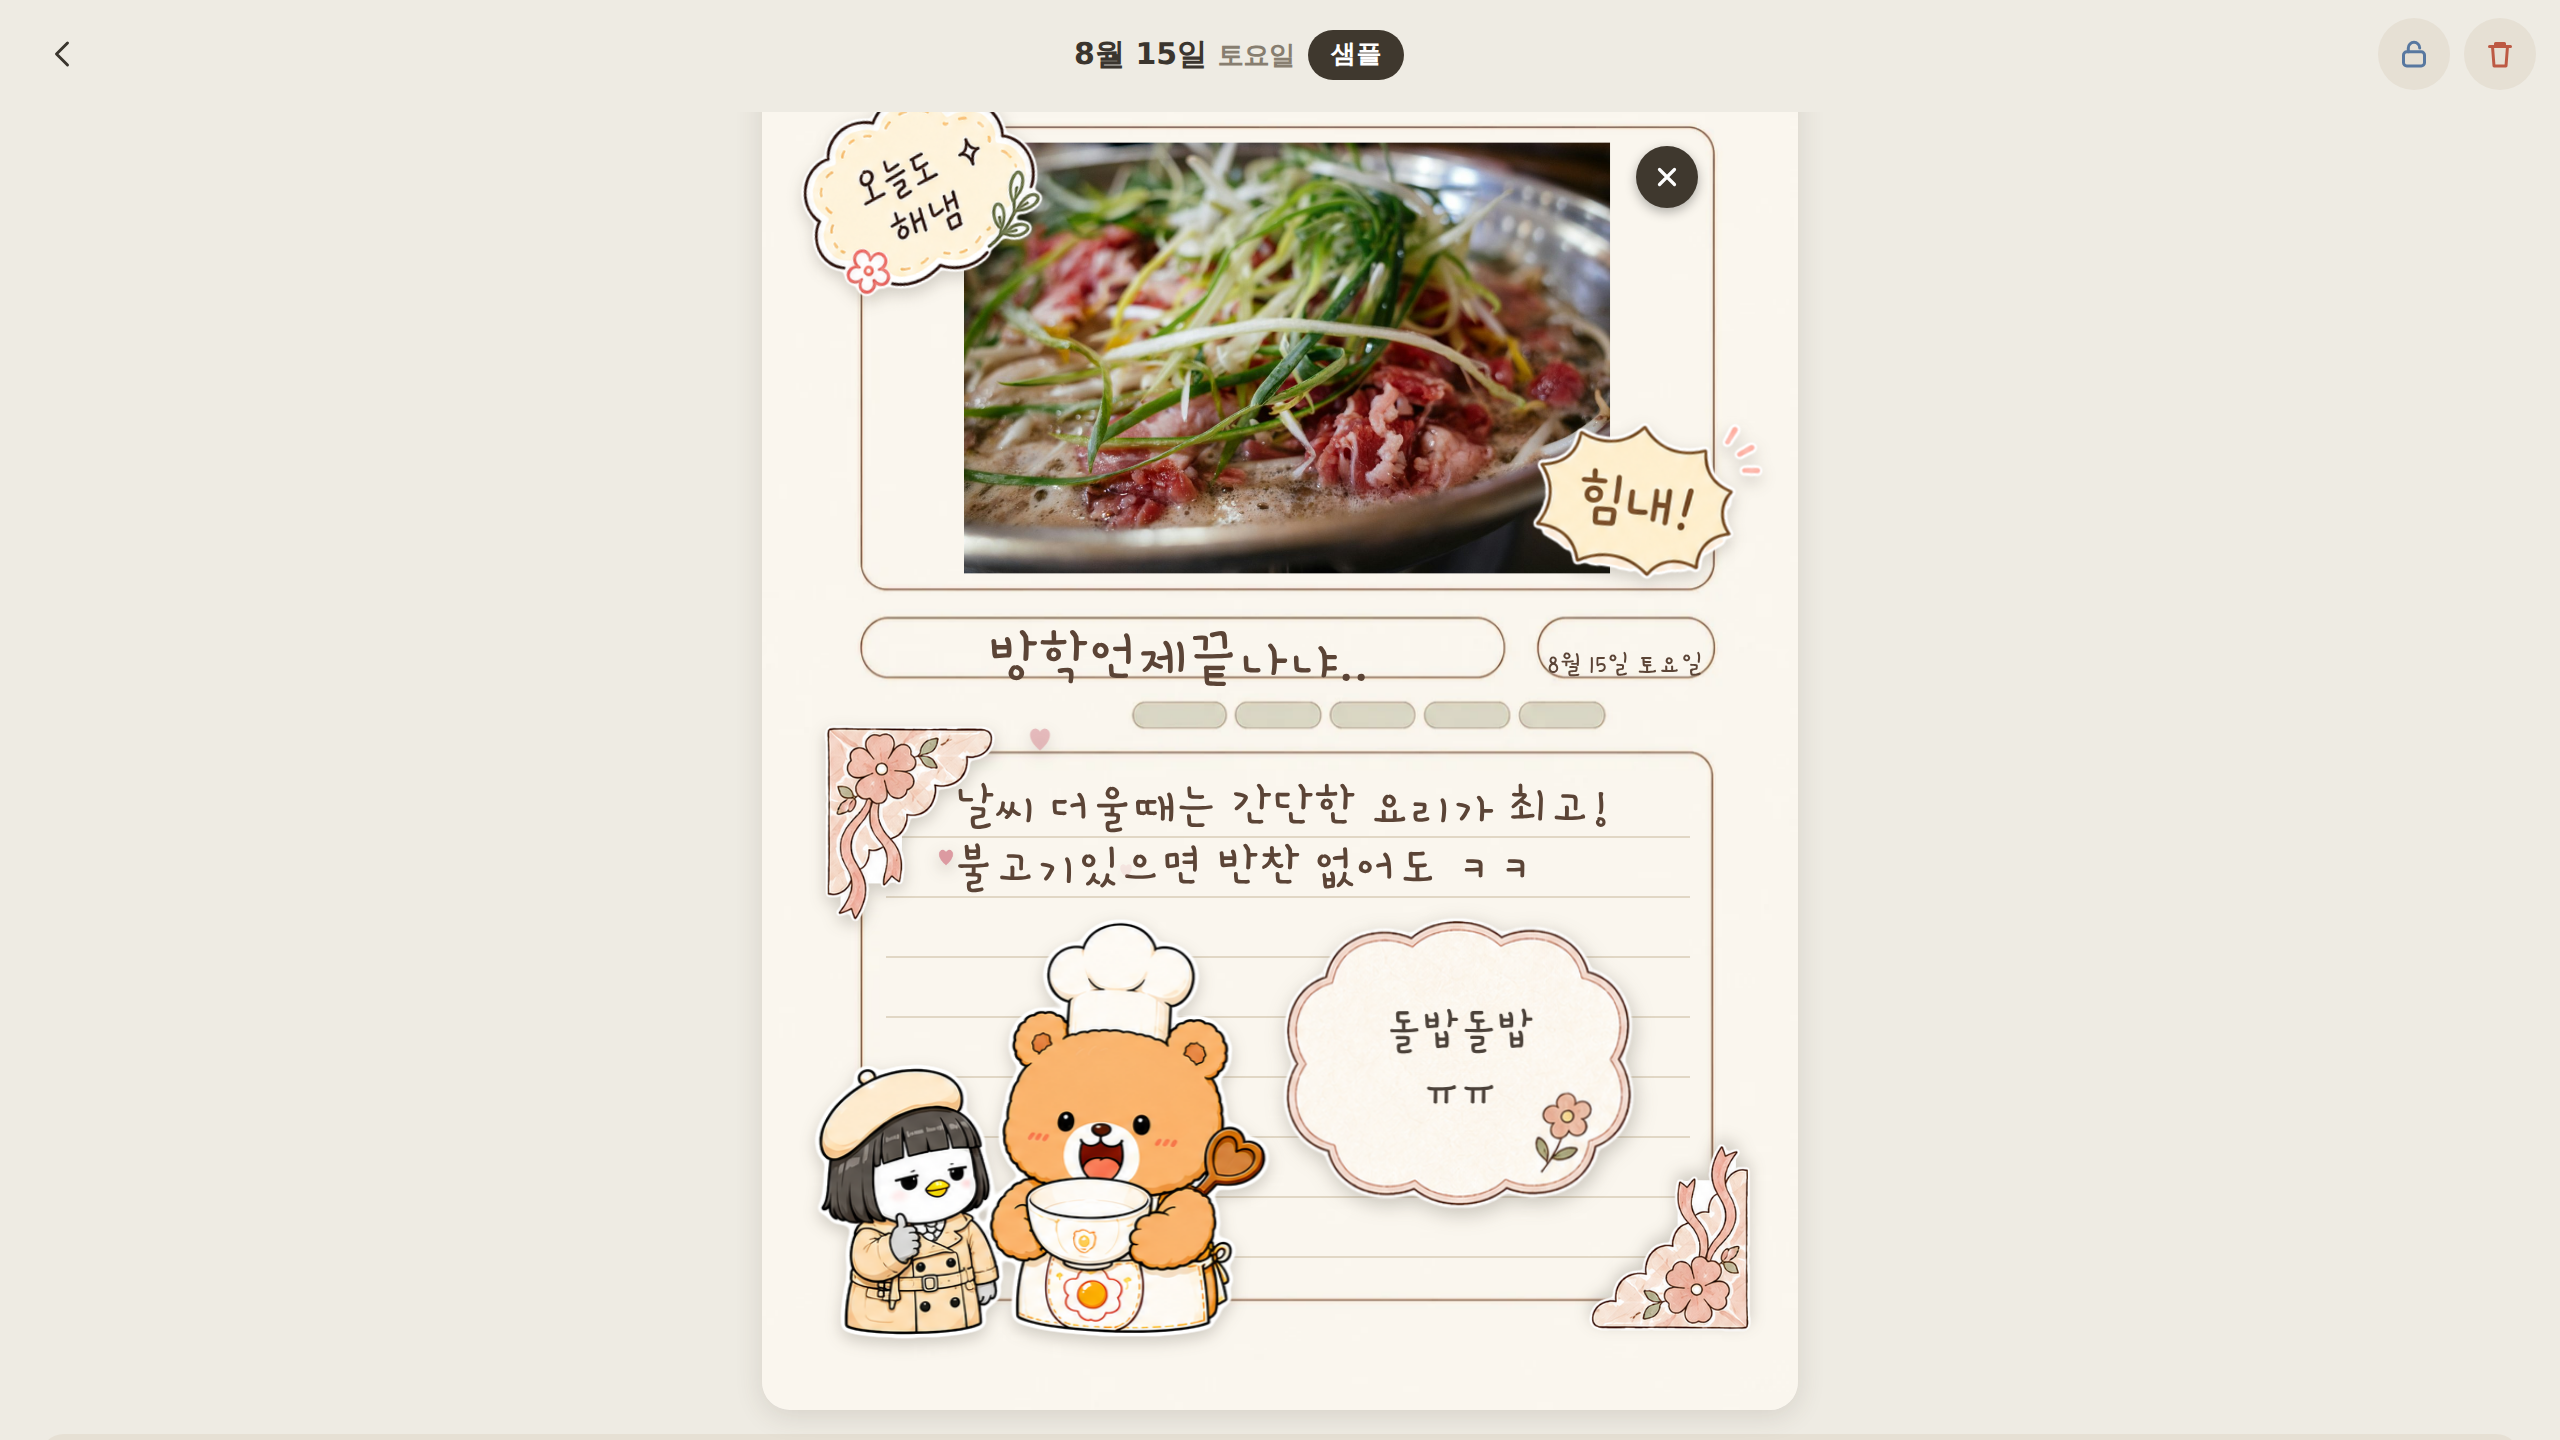
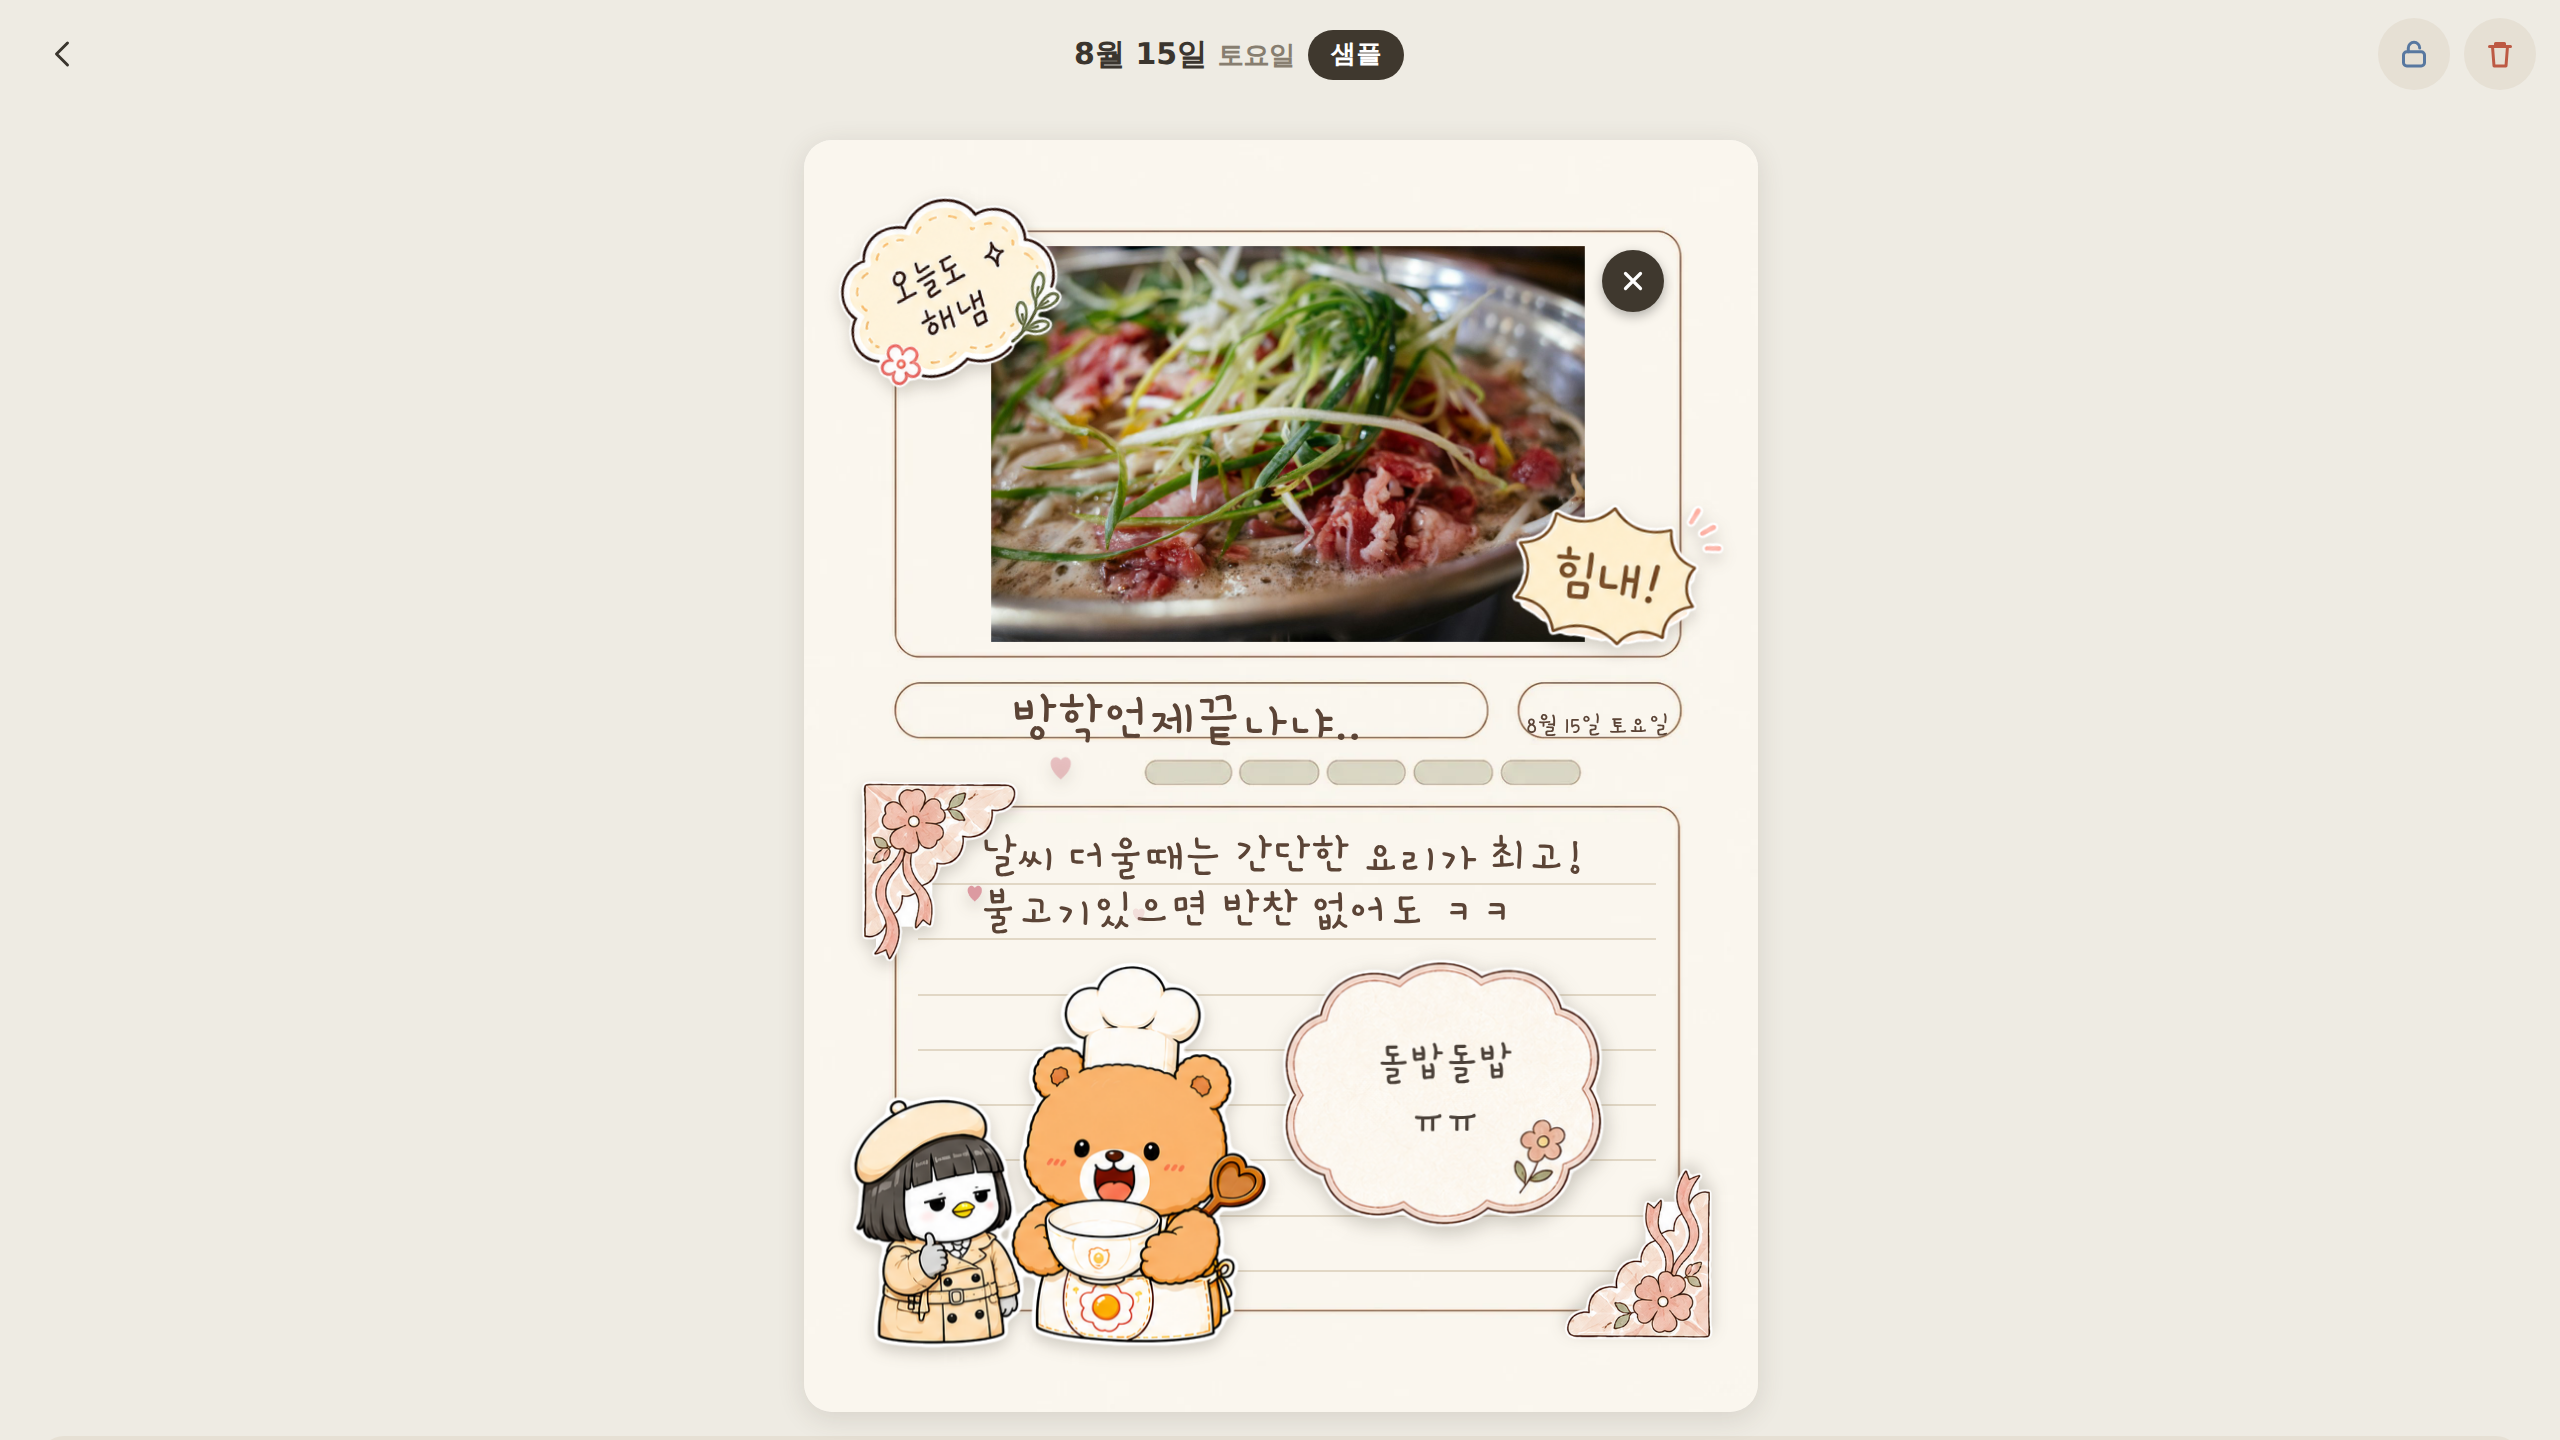
가로에서 일기 종이가 화면을 넘던 것 · 스샷 순서를 홈부터로
창업자: "일기 아래 잘림 확인" → 굴려서 아래를 살렸더니 → "일기 위가 잘렸어.."
        "홈 화면이 6번째로 가있네"

⛔ 굴려서는 못 푸는 문제였다 — 아래를 살리면 위가 잘린다. 자리가 아니라 «크기»가 틀렸다.

styles.css @media (orientation: landscape) 의 .paper-box
  옛: max-width: calc(var(--app-height) * 0.72)   → 종이 높이 = 화면의 96%
  새: max-width: calc((var(--app-height) - 84px) * 0.75)
  ⭐ 0.96 이 «상단바를 안 뺀» 값이었다. 상단바 70 ＋ 종이 691 = 761 > 화면 720 (41px 초과).
  ⭐ 화면을 키워도 안 낫는다 — 종이가 화면 높이에 비례해서 800→38px · 900→34px 로 계속 넘쳤다.
     (뷰포트 셋으로 재서 확인 · 그래서 스샷 해상도로 피할 수 없는 «앱 문제»였다)
  ✅ 상단바(70)＋여유(14)=84px 를 빼고 남은 높이에 맞춘다. 실측 720 → 종이 477x636 · 0px 초과.
  ⚠ 폰 가로도 같은 미디어쿼리라 같이 고쳐진다. 표지(0.85)는 지목받지 않아 안 건드렸다.

스샷 순서 = 유저가 앱을 여는 순서로
  홈 · 레시피목록 · 레시피상세 · 레꾸 · 장보기 · 냉장고 · 일기
  ⭐ 스토어에서 처음 보는 그림 = 깔고 나서 처음 보는 화면이라야 이어진다.

Claude-Session: https://claude.ai/code/session_01FxApkQkfqgWWNZhgiynRFA

Changed region(s): [[0.3125, 0.0625, 0.6875, 0.9375]]

diff --git a/hankki/src/styles.css b/hankki/src/styles.css
@@ -2194,8 +2194,17 @@ html, body { overscroll-behavior: none; }
      ⭐ 뿌리는 버그가 아니라 위 `max-width: none`(창업자 확정 「안 D」)이다 — 글은 폭이 넓을수록 좋지만
         **정사각·세로 종이는 폭이 곧 높이**라서, 폭을 다 쓰면 높이가 화면을 통째로 넘는다.
      ✅ 그래서 «글은 그대로 꽉» 두고 **종이·표지만 화면 «높이»에 맞춘다.** 다른 탭은 안 건드린다.
-     📐 종이는 3:4 라 0.72(→높이 0.96 화면) · 표지는 1:1 이라 0.85. */
-  .paper-box { max-width: calc(var(--app-height, 100dvh) * 0.72); margin-left: auto; margin-right: auto; }
+     📐 종이는 3:4 라 0.72(→높이 0.96 화면) · 표지는 1:1 이라 0.85.
+
+     ⛔⛔ **[2026-08-16 고침] 「0.96 화면」이 «상단바를 안 뺀» 값이라 종이가 늘 잘렸다.**
+     📮 창업자 = *"일기 아래 잘림 확인"* → 굴려서 아래를 살렸더니 → *"**일기 위가 잘렸어..**"*
+     🔢 실측(가로 1280×720) = 종이 top **70**(상단바) ＋ 높이 **691** = 761 → 화면 720 을 **41px 넘는다.**
+        ⭐ 화면을 키워도 안 낫는다 — 종이가 화면 높이에 «비례»하므로 800→38px · 900→34px 로 계속 넘쳤다.
+        📌 즉 **굴려도 못 푼다** — 아래를 살리면 위가 잘리고 위를 살리면 아래가 잘린다. 자리를 옮길 게 아니라 «크기»가 틀렸다.
+     ✅ 상단바(70) ＋ 여유(14) = **84px 를 빼고** 남은 높이에 맞춘다. 폭 = 높이 × 0.75(3:4).
+        검산 = 720 → 폭 477·높이 636 → 70+636 = **706 < 720** ✅ / 폰 가로 411 → 70+327 = **397 < 411** ✅
+     ⚠ 표지(0.85)는 창업자가 지목하지 않아 안 건드린다 — 넓히지 않는다. */
+  .paper-box { max-width: calc((var(--app-height, 100dvh) - 84px) * 0.75); margin-left: auto; margin-right: auto; }
   /* 🍲🍲 **가로 2단 — 표지 «왼쪽» · 재료·만드는 법 «오른쪽»** (⭐창업자 확정 2026-08-09 밤 「38:62」)
      📮 *"레시피누르면 아이콘이미지랑 아래 요리시작만 보이고 재료 만드는법 등이 다 안보임"* ·
         *"지금은 재료랑 만드는법이 안보여서 어차피 패드에서 앱을 못써"* · *"난 b 2단이 더 보기 편한 것 같아"*
